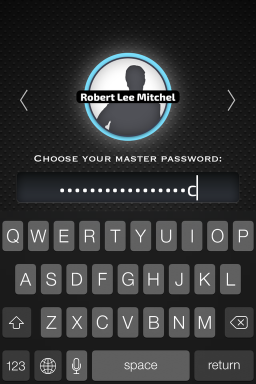
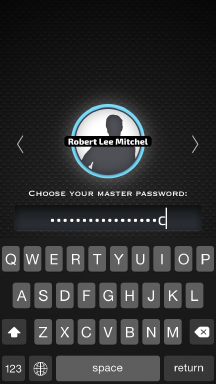
Minor fixes and guide pages update.

diff --git a/MasterPassword/ObjC/iOS/MPGuideViewController.m b/MasterPassword/ObjC/iOS/MPGuideViewController.m
@@ -50,16 +50,14 @@
             [MPGuideStep stepWithImage:[UIImage imageNamed:@"image-5"] caption:
                     @"Your sites are easy to find and sorted by recency.\nTap any site to copy its password.\nYou can now switch and paste it in another app."],
             [MPGuideStep stepWithImage:[UIImage imageNamed:@"image-6"] caption:
-                    @"If the site you're looking for isn't easy to find, just type a few letters in the search box to filter the site list."],
-            [MPGuideStep stepWithImage:[UIImage imageNamed:@"image-7"] caption:
-                    @"If you ever need a new password for the site, just tap the plus icon to increment its counter.\nYou can hold down to reset it back to 1."],
-            [MPGuideStep stepWithImage:[UIImage imageNamed:@"image-8"] caption:
                     @"The user icon lets you save your site's login.\nThis is useful if you find it hard to remember the user name for this site."],
+            [MPGuideStep stepWithImage:[UIImage imageNamed:@"image-7"] caption:
+                    @"To make changes to the site password, tap the settings icon or swipe left to reveal extra buttons."],
+            [MPGuideStep stepWithImage:[UIImage imageNamed:@"image-8"] caption:
+                    @"If you ever need a new password for the site, just tap the plus icon to increment its counter.\nYou can hold down to reset it back to 1."],
             [MPGuideStep stepWithImage:[UIImage imageNamed:@"image-9"] caption:
-                    @"Master Password lets you swipe to upgrade or downgrade your password's complexity.\nSome sites won't let you use complex passwords."],
+                    @"Use the list icon to upgrade or downgrade your password's complexity.\nSome sites won't let you use complex passwords."],
             [MPGuideStep stepWithImage:[UIImage imageNamed:@"image-10"] caption:
-                    @"To delete a site, swipe it all the way left to find the \"Delete Site\" button."],
-            [MPGuideStep stepWithImage:[UIImage imageNamed:@"image-11"] caption:
                     @"If you have a password that you cannot change, you can save it as a Personal password.  Device Private means the site will not be backed up."],
     ];
 }

diff --git a/MasterPassword/ObjC/iOS/MPiOSAppDelegate.m b/MasterPassword/ObjC/iOS/MPiOSAppDelegate.m
@@ -565,6 +565,7 @@
 - (void)ubiquityStoreManager:(UbiquityStoreManager *)manager willLoadStoreIsCloud:(BOOL)isCloudStore {
 
     dispatch_async( dispatch_get_main_queue(), ^{
+        [self signOutAnimated:YES];
         [self.handleCloudContentAlert cancelAlertAnimated:YES];
         if (!self.storeLoadingOverlay)
             self.storeLoadingOverlay = [PearlOverlay showProgressOverlayWithTitle:@"Loading Sites"];

diff --git a/MasterPassword/ObjC/iOS/MPAvatarCell.m b/MasterPassword/ObjC/iOS/MPAvatarCell.m
@@ -273,7 +273,7 @@ const long MPAvatarAdd = 10000;
         self.avatarImageView.layer.cornerRadius = self.avatarImageView.bounds.size.height / 2;
         self.spinner.alpha = self.spinnerActive? 1: 0;
 
-        [self layoutIfNeeded];
+        [self layoutSubviews];
     }                completion:nil];
 }
 
